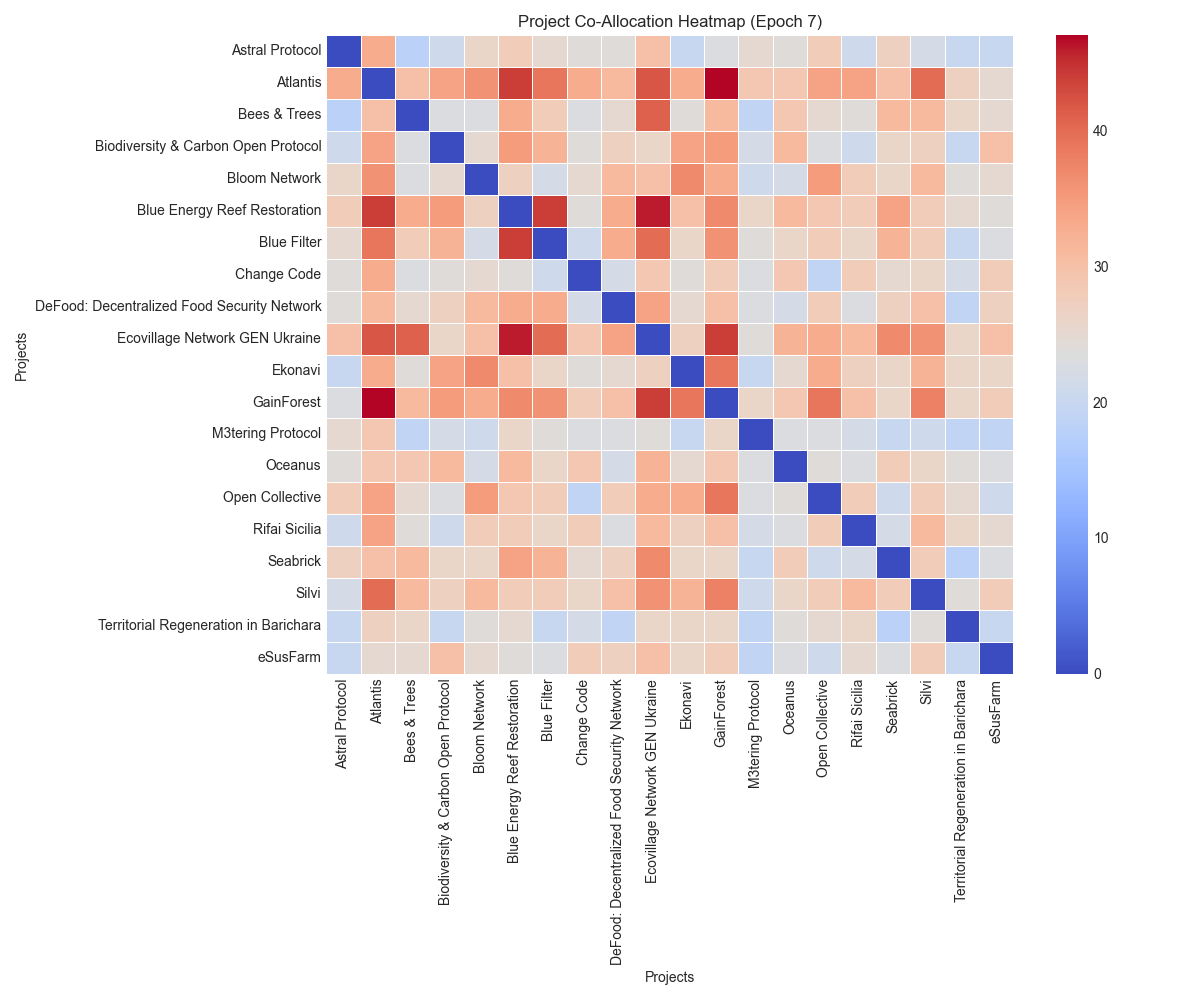
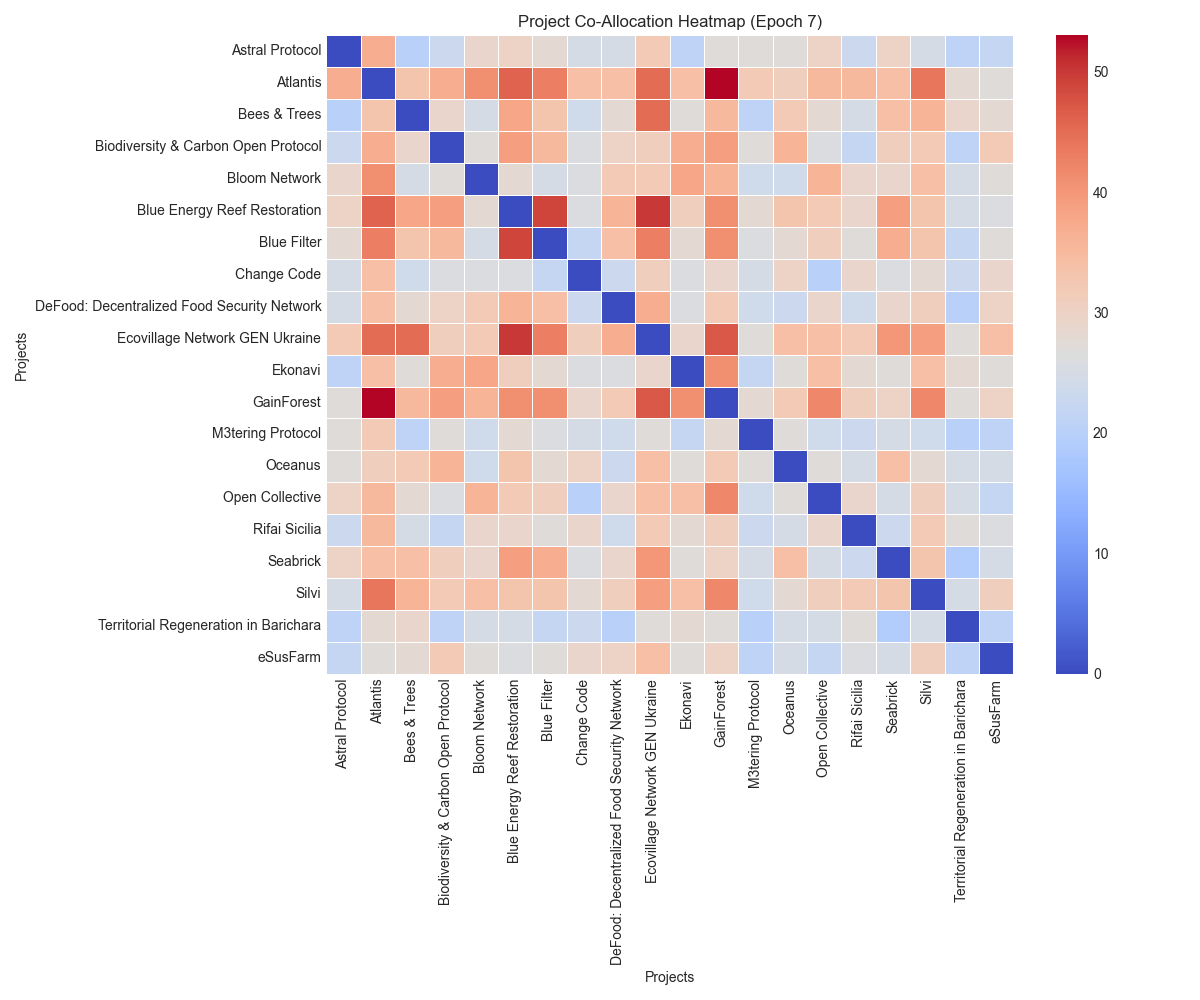
update data

diff --git a/_site/e7.html b/_site/e7.html
@@ -158,10 +158,10 @@
     <tr>
       <td style="width: 1%; text-align: center; padding: 8px; word-wrap: break-word; white-space: normal;">7</td>
       <td style="width: 1%; text-align: center; padding: 8px; word-wrap: break-word; white-space: normal;">211.906</td>
-      <td style="width: 1%; text-align: center; padding: 8px; word-wrap: break-word; white-space: normal;">197.967</td>
-      <td style="width: 1%; text-align: center; padding: 8px; word-wrap: break-word; white-space: normal;">3.231</td>
-      <td style="width: 1%; text-align: center; padding: 8px; word-wrap: break-word; white-space: normal;">6.6</td>
-      <td style="width: 1%; text-align: center; padding: 8px; word-wrap: break-word; white-space: normal;">93.4</td>
+      <td style="width: 1%; text-align: center; padding: 8px; word-wrap: break-word; white-space: normal;">202.794</td>
+      <td style="width: 1%; text-align: center; padding: 8px; word-wrap: break-word; white-space: normal;">3.324</td>
+      <td style="width: 1%; text-align: center; padding: 8px; word-wrap: break-word; white-space: normal;">4.3</td>
+      <td style="width: 1%; text-align: center; padding: 8px; word-wrap: break-word; white-space: normal;">95.7</td>
       <td style="width: 1%; text-align: center; padding: 8px; word-wrap: break-word; white-space: normal;">1.6</td>
     </tr>
   </tbody>
@@ -229,9 +229,9 @@
     <tr>
       <td style="width: 1%; text-align: center; padding: 8px; word-wrap: break-word; white-space: normal;">7</td>
       <td style="width: 1%; text-align: center; padding: 8px; word-wrap: break-word; white-space: normal;">2162</td>
-      <td style="width: 1%; text-align: center; padding: 8px; word-wrap: break-word; white-space: normal;">435</td>
-      <td style="width: 1%; text-align: center; padding: 8px; word-wrap: break-word; white-space: normal;">381</td>
-      <td style="width: 1%; text-align: center; padding: 8px; word-wrap: break-word; white-space: normal;">20.1</td>
+      <td style="width: 1%; text-align: center; padding: 8px; word-wrap: break-word; white-space: normal;">481</td>
+      <td style="width: 1%; text-align: center; padding: 8px; word-wrap: break-word; white-space: normal;">424</td>
+      <td style="width: 1%; text-align: center; padding: 8px; word-wrap: break-word; white-space: normal;">22.2</td>
     </tr>
   </tbody>
 </table>
@@ -297,10 +297,10 @@
     </tr>
     <tr>
       <td style="width: 1%; text-align: center; padding: 8px; word-wrap: break-word; white-space: normal;">7</td>
-      <td style="width: 1%; text-align: center; padding: 8px; word-wrap: break-word; white-space: normal;">75</td>
-      <td style="width: 1%; text-align: center; padding: 8px; word-wrap: break-word; white-space: normal;">16</td>
+      <td style="width: 1%; text-align: center; padding: 8px; word-wrap: break-word; white-space: normal;">85</td>
+      <td style="width: 1%; text-align: center; padding: 8px; word-wrap: break-word; white-space: normal;">17</td>
       <td style="width: 1%; text-align: center; padding: 8px; word-wrap: break-word; white-space: normal;">28</td>
-      <td style="width: 1%; text-align: center; padding: 8px; word-wrap: break-word; white-space: normal;">159</td>
+      <td style="width: 1%; text-align: center; padding: 8px; word-wrap: break-word; white-space: normal;">185</td>
     </tr>
   </tbody>
 </table>
@@ -598,7 +598,7 @@
             <span>Octant Monitor</span>
         </div>
         <div class="footer-info">
-            <p class="footer-update">Last update: 2025-04-22 17:57:47</p>
+            <p class="footer-update">Last update: 2025-04-23 15:13:56</p>
             <p class="copyright">&copy; 2025 Octant. All rights reserved.</p>
         </div>
     </div>

diff --git a/_includes/e7/table_amounts - andrzej@golem.foundation's conflict 04.23.2025_09.53.00.html b/_includes/e7/table_amounts - andrzej@golem.foundation's conflict 04.23.2025_09.53.00.html
@@ -68,11 +68,11 @@
     <tr>
       <td style="width: 1%; text-align: center; padding: 8px; word-wrap: break-word; white-space: normal;">7</td>
       <td style="width: 1%; text-align: center; padding: 8px; word-wrap: break-word; white-space: normal;">211.906</td>
-      <td style="width: 1%; text-align: center; padding: 8px; word-wrap: break-word; white-space: normal;">202.794</td>
-      <td style="width: 1%; text-align: center; padding: 8px; word-wrap: break-word; white-space: normal;">3.324</td>
-      <td style="width: 1%; text-align: center; padding: 8px; word-wrap: break-word; white-space: normal;">4.3</td>
-      <td style="width: 1%; text-align: center; padding: 8px; word-wrap: break-word; white-space: normal;">95.7</td>
-      <td style="width: 1%; text-align: center; padding: 8px; word-wrap: break-word; white-space: normal;">1.6</td>
+      <td style="width: 1%; text-align: center; padding: 8px; word-wrap: break-word; white-space: normal;">198.013</td>
+      <td style="width: 1%; text-align: center; padding: 8px; word-wrap: break-word; white-space: normal;">3.320</td>
+      <td style="width: 1%; text-align: center; padding: 8px; word-wrap: break-word; white-space: normal;">6.6</td>
+      <td style="width: 1%; text-align: center; padding: 8px; word-wrap: break-word; white-space: normal;">93.4</td>
+      <td style="width: 1%; text-align: center; padding: 8px; word-wrap: break-word; white-space: normal;">1.7</td>
     </tr>
   </tbody>
 </table>

diff --git a/_includes/e7/table_users - andrzej@golem.foundation's conflict 04.23.2025_09.52.59.html b/_includes/e7/table_users - andrzej@golem.foundation's conflict 04.23.2025_09.52.59.html
@@ -54,9 +54,9 @@
     <tr>
       <td style="width: 1%; text-align: center; padding: 8px; word-wrap: break-word; white-space: normal;">7</td>
       <td style="width: 1%; text-align: center; padding: 8px; word-wrap: break-word; white-space: normal;">2162</td>
-      <td style="width: 1%; text-align: center; padding: 8px; word-wrap: break-word; white-space: normal;">481</td>
-      <td style="width: 1%; text-align: center; padding: 8px; word-wrap: break-word; white-space: normal;">424</td>
-      <td style="width: 1%; text-align: center; padding: 8px; word-wrap: break-word; white-space: normal;">22.2</td>
+      <td style="width: 1%; text-align: center; padding: 8px; word-wrap: break-word; white-space: normal;">469</td>
+      <td style="width: 1%; text-align: center; padding: 8px; word-wrap: break-word; white-space: normal;">414</td>
+      <td style="width: 1%; text-align: center; padding: 8px; word-wrap: break-word; white-space: normal;">21.7</td>
     </tr>
   </tbody>
 </table>

diff --git a/_includes/e7/table_cohorts - andrzej@golem.foundation's conflict 04.23.2025_09.52.59.html b/_includes/e7/table_cohorts - andrzej@golem.foundation's conflict 04.23.2025_09.52.59.html
@@ -56,7 +56,7 @@
       <td style="width: 1%; text-align: center; padding: 8px; word-wrap: break-word; white-space: normal;">85</td>
       <td style="width: 1%; text-align: center; padding: 8px; word-wrap: break-word; white-space: normal;">17</td>
       <td style="width: 1%; text-align: center; padding: 8px; word-wrap: break-word; white-space: normal;">28</td>
-      <td style="width: 1%; text-align: center; padding: 8px; word-wrap: break-word; white-space: normal;">185</td>
+      <td style="width: 1%; text-align: center; padding: 8px; word-wrap: break-word; white-space: normal;">179</td>
     </tr>
   </tbody>
 </table>

diff --git a/_site/e5.html b/_site/e5.html
@@ -373,7 +373,7 @@
             <span>Octant Monitor</span>
         </div>
         <div class="footer-info">
-            <p class="footer-update">Last update: 2025-04-22 17:57:47</p>
+            <p class="footer-update">Last update: 2025-04-23 15:13:56</p>
             <p class="copyright">&copy; 2025 Octant. All rights reserved.</p>
         </div>
     </div>

diff --git a/_site/e6.html b/_site/e6.html
@@ -518,7 +518,7 @@
             <span>Octant Monitor</span>
         </div>
         <div class="footer-info">
-            <p class="footer-update">Last update: 2025-04-22 17:57:47</p>
+            <p class="footer-update">Last update: 2025-04-23 15:13:56</p>
             <p class="copyright">&copy; 2025 Octant. All rights reserved.</p>
         </div>
     </div>

diff --git a/_site/index.html b/_site/index.html
@@ -121,7 +121,7 @@
             <span>Octant Monitor</span>
         </div>
         <div class="footer-info">
-            <p class="footer-update">Last update: 2025-04-22 17:57:47</p>
+            <p class="footer-update">Last update: 2025-04-23 15:13:56</p>
             <p class="copyright">&copy; 2025 Octant. All rights reserved.</p>
         </div>
     </div>

diff --git a/_includes/e7/current_datetime - andrzej@golem.foundation's conflict 04.23.2025_09.53.00.html b/_includes/e7/current_datetime - andrzej@golem.foundation's conflict 04.23.2025_09.53.00.html
@@ -7,6 +7,6 @@
     <title>Current Date and Time</title>
 </head>
 <body>
-    <p>Last update: 2025-04-23 15:08:17</p>
+    <p>Last update: 2025-04-23 09:20:35</p>
 </body>
 </html>
